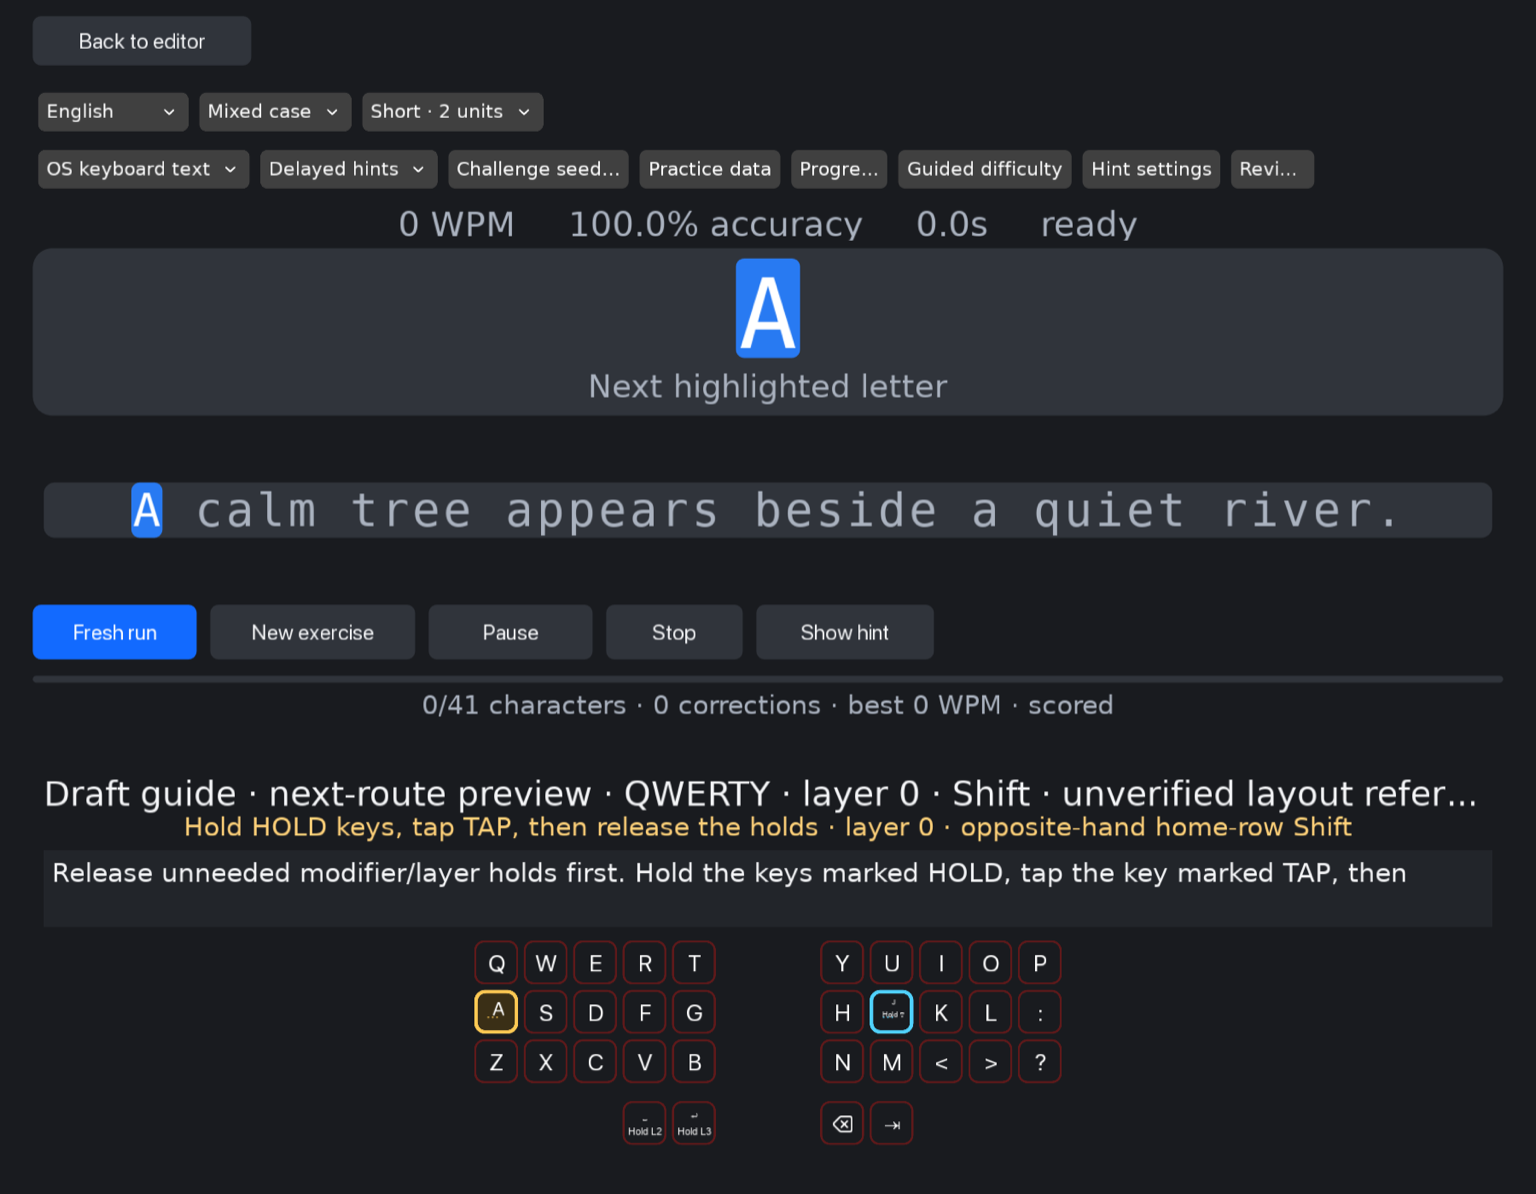
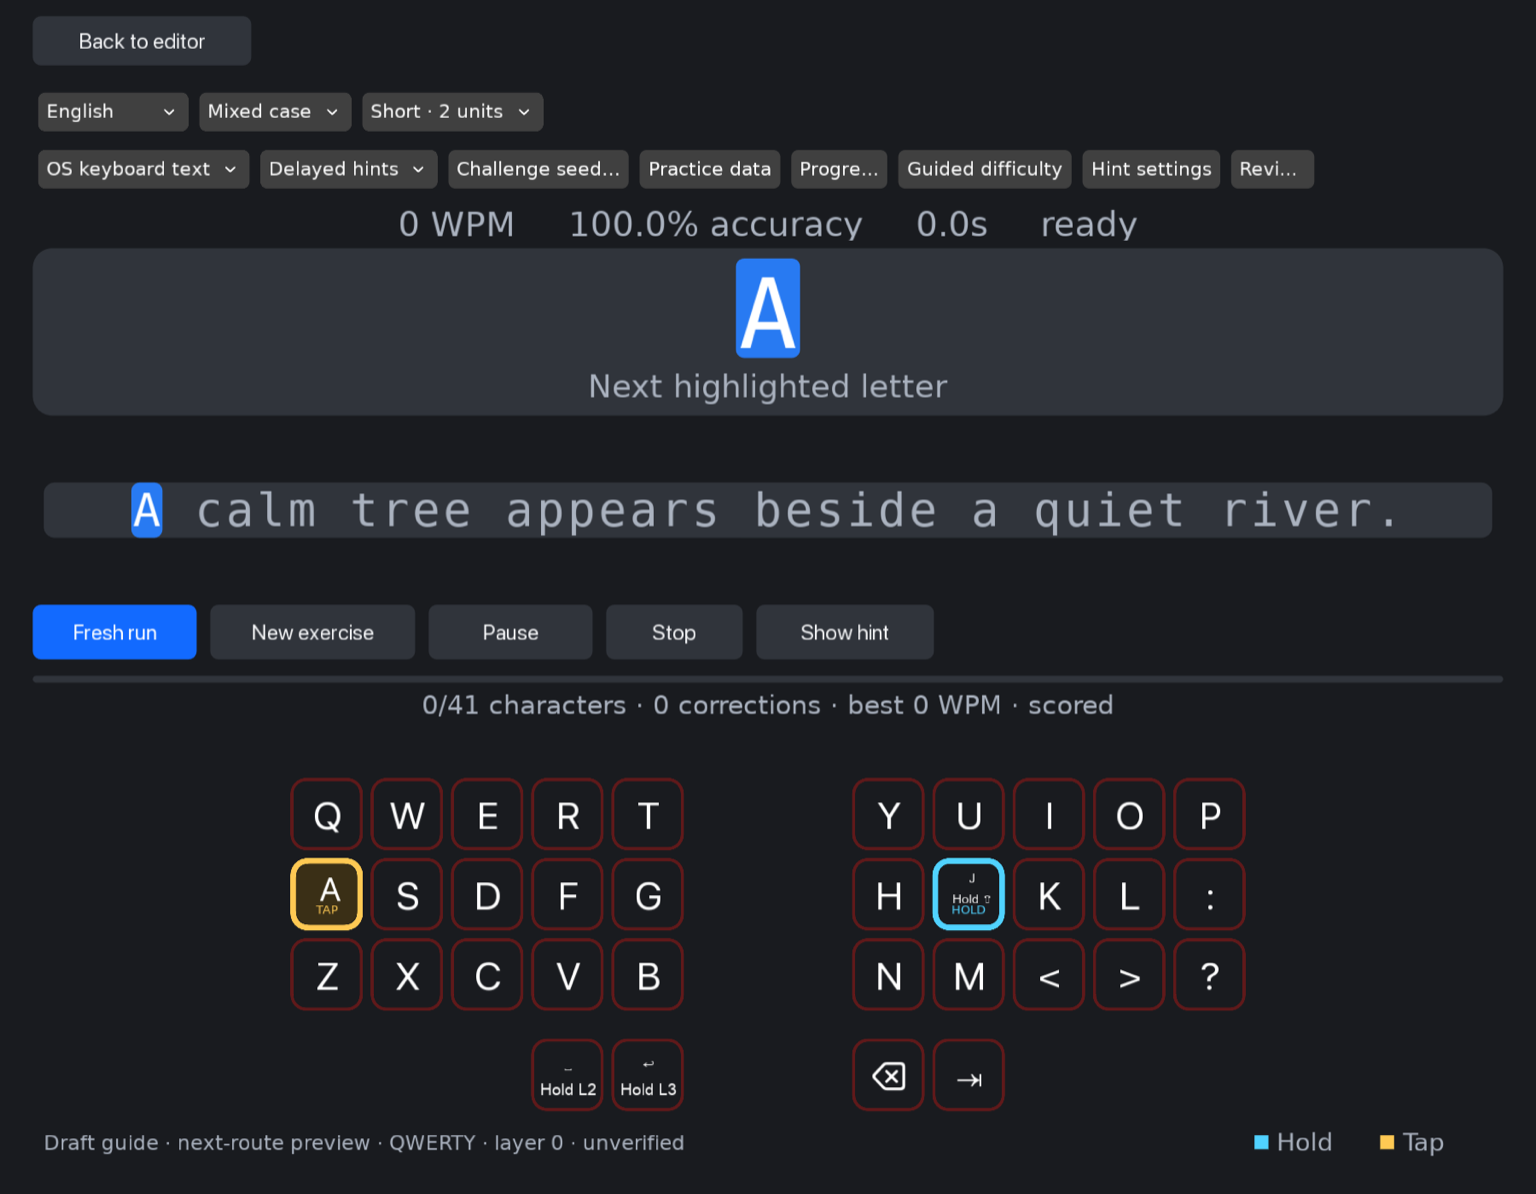
Keep tutor keyboard stable and simplify hints to highlights

diff --git a/docs/implementation/practice-help.md b/docs/implementation/practice-help.md
@@ -4,8 +4,10 @@ Hint policy v1 supports full guidance, delayed hints and hints on request alongs
 layout-only and hidden practice. Delay includes ready-time hesitation, excludes
 pauses, resets for each focused position and can adapt to matching clean character
 medians. A DVUI timer wakes idle frames when the delay expires. Explicit requests
-remain available during hidden recall. Context panels appear only when help is
-shown; HOLD/TAP/release instructions use proven routes. Opposite-hand home-row
+remain available during hidden recall. Hints use keyboard highlighting with a
+constant keyboard rectangle, a cyan Hold / amber Tap legend and small footer
+connection details. Instruction paragraphs were removed following manual feedback.
+Opposite-hand home-row
 Shift is preferred only when supported by metadata.
 
 New runs retain actual rendered cue episodes, requests, per-attempt visibility,
@@ -39,8 +41,8 @@ exposed journal-mode contention during concurrent first opens; bounded retries
 cover SQLite's immediate BUSY return without changing transaction semantics.
 Native wide/small help,
 settings, review and requested-help rundown were manually compared with the F
-mockup using explicit offline cache fixtures. The contextual explanation sits
-above the keyboard rather than beside it to retain readable keys at small sizes.
+mockup using explicit offline cache fixtures. Subsequent manual feedback removed
+the contextual explanation so revealing a hint cannot resize or move the keys.
 Screenshots are linked from the tutor guide; no screenshot assertion test was
 added. Keyboard ergonomics and cross-platform native GUI behavior remain manual
 acceptance.

diff --git a/docs/typing-practice.md b/docs/typing-practice.md
@@ -69,8 +69,9 @@ a fresh exercise. Loss of verified live state shows an unavailable keyboard.
 Choose **Delayed hints** or **Hints on request** to reduce guidance gradually.
 **Hint settings** controls the delay and optional adaptation to matching clean
 character timing. Delays exclude pauses and restart for each target. **Show hint**
-is available even in Hidden practice. Contextual instructions show compatible
-HOLD/TAP/release sequences only when help appears.
+is available even in Hidden practice. The keyboard stays the same size and position
+when hints appear. Cyan marks keys to hold; amber marks the key to tap, with a
+compact color legend. Connection details sit quietly at the bottom left.
 
 ![Native delayed hint](screenshots/typing-practice/help-wide.png)
 
